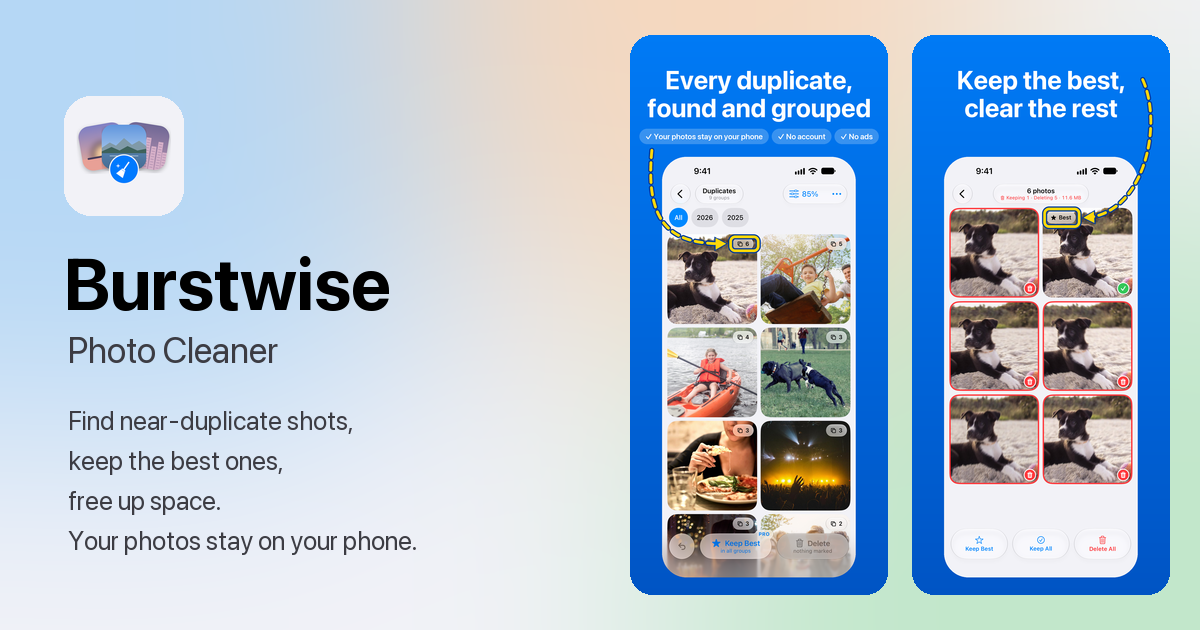
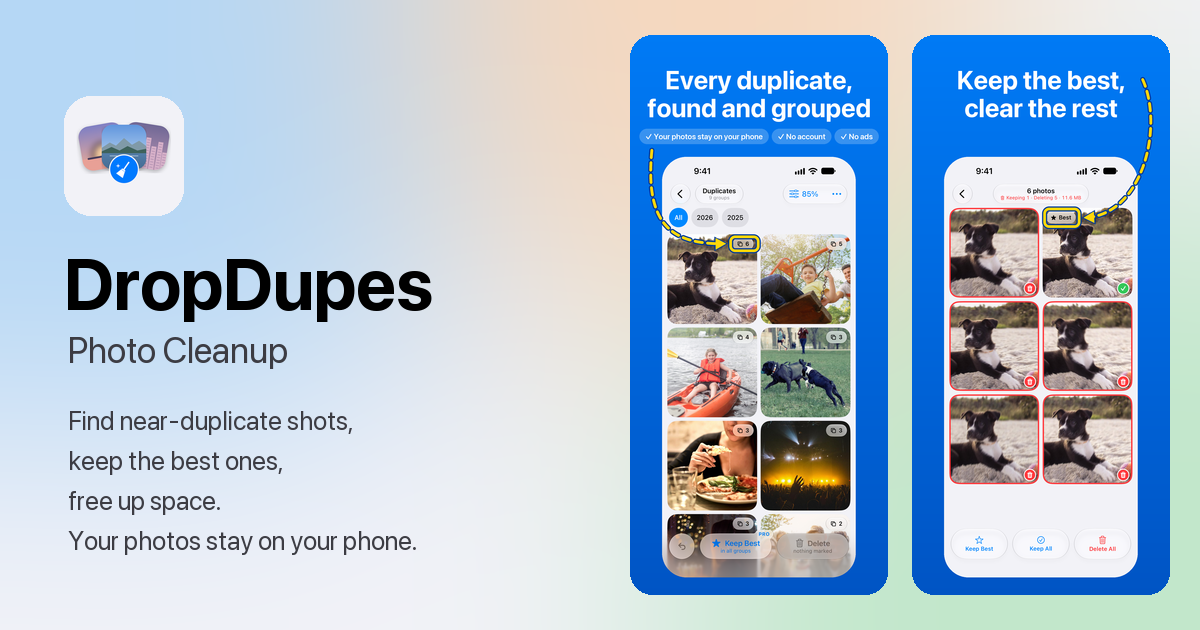
Site from burstwise-ios 5f99085

Changed region(s): [[0.0617, 0.3921, 0.37, 0.5127], [0.2158, 0.5429, 0.2467, 0.573]]

diff --git a/index.html b/index.html
@@ -3,18 +3,19 @@
 <head>
 <meta charset="utf-8">
 <meta name="viewport" content="width=device-width, initial-scale=1, viewport-fit=cover">
-<title>Burstwise: Photo Cleaner for iPhone</title>
-<meta name="description" content="Burstwise finds duplicate and near-identical photos on your iPhone, suggests the best shot, and clears out your biggest photos and videos. Your photos stay on your phone.">
-<meta property="og:title" content="Burstwise: Photo Cleaner">
+<title>DropDupes: Photo Cleanup for iPhone</title>
+<meta name="description" content="DropDupes finds duplicate and near-identical photos on your iPhone, suggests the best shot, and clears out your biggest photos and videos. Your photos stay on your phone.">
+<meta property="og:title" content="DropDupes: Photo Cleanup">
 <meta property="og:description" content="Free up space: find near-identical shots, keep the best ones, and clear out your biggest photos and videos. Your photos stay on your phone.">
-<meta property="og:image" content="https://bar2133.github.io/burstwise/og-image.png">
+<meta property="og:image" content="https://bar2133.github.io/dropdupes/og-image.png">
 <meta property="og:image:width" content="1200">
 <meta property="og:image:height" content="630">
-<meta property="og:image:alt" content="Burstwise: Photo Cleaner app icon and screenshots">
+<meta property="og:image:alt" content="DropDupes: Photo Cleanup app icon and screenshots">
 <meta property="og:type" content="website">
-<meta property="og:site_name" content="Burstwise">
-<meta name="twitter:image" content="https://bar2133.github.io/burstwise/og-image.png">
-<meta property="og:url" content="https://bar2133.github.io/burstwise/">
+<meta property="og:site_name" content="DropDupes">
+<meta name="twitter:image" content="https://bar2133.github.io/dropdupes/og-image.png">
+<meta property="og:url" content="https://bar2133.github.io/dropdupes/">
+<link rel="canonical" href="https://bar2133.github.io/dropdupes/">
 <meta name="twitter:card" content="summary_large_image">
 <link rel="icon" href="icon.png">
 <link rel="apple-touch-icon" href="icon.png">
@@ -25,7 +26,7 @@
 <body>
 
 <header class="nav glass">
-  <a class="brand" href="#top"><img src="icon.png" alt="">Burstwise</a>
+  <a class="brand" href="#top"><img src="icon.png" alt="">DropDupes</a>
   <nav class="links" aria-label="Sections">
     <a href="#how" class="optional">How it works</a>
     <a href="#features" class="optional">Features</a>
@@ -38,9 +39,9 @@
 
 <main id="top">
   <div class="wrap hero">
-    <img class="icon" src="icon.png" alt="Burstwise app icon" width="112" height="112">
+    <img class="icon" src="icon.png" alt="DropDupes app icon" width="112" height="112">
     <h1>Free up space.<br><span class="accent">Keep the best.</span></h1>
-    <p class="sub">Burstwise finds duplicate and near-identical photos on your iPhone and suggests the best shot of each group.</p>
+    <p class="sub">DropDupes finds duplicate and near-identical photos on your iPhone and suggests the best shot of each group.</p>
     <div class="chips">
       <span class="chip glass"><span class="tick">✓</span>Your photos stay on your phone</span>
       <span class="chip glass"><span class="tick">✓</span>No account</span>
@@ -54,7 +55,7 @@
         Coming soon to the App Store
       </a>
     </div>
-    <p class="price-note">Free to try · Burstwise Pro is a one-time $4.99 purchase · iOS 26 or later</p>
+    <p class="price-note">Free to try · DropDupes Pro is a one-time $4.99 purchase · iOS 26 or later</p>
   </div>
 
   <div class="shots" aria-label="Screenshots">
@@ -82,7 +83,7 @@
       <li class="card">
         <span class="num">1</span>
         <h3>Scan</h3>
-        <p>Burstwise looks through your library on your iPhone and groups near-identical shots and repeats.</p>
+        <p>DropDupes looks through your library on your iPhone and groups near-identical shots and repeats.</p>
       </li>
       <li class="card">
         <span class="num">2</span>
@@ -114,7 +115,7 @@
       <div class="card">
         <span class="sf purple"><svg viewBox="0 0 24 24" aria-hidden="true"><circle cx="12" cy="8.5" r="5" fill="none" stroke="currentColor" stroke-width="2"/><circle cx="8.5" cy="15" r="5" fill="none" stroke="currentColor" stroke-width="2"/><circle cx="15.5" cy="15" r="5" fill="none" stroke="currentColor" stroke-width="2"/></svg></span>
         <h3>Clean Up</h3>
-        <p>Blurry shots, screenshots, documents, people, landscapes and food, one filter away. One at a time is free; combine them with Pro.</p>
+        <p>Blurry shots, screenshots, documents, landscapes and food, one filter away. One at a time is free; combine them with Pro.</p>
       </div>
       <div class="card">
         <span class="sf orange"><svg viewBox="0 0 24 24" aria-hidden="true"><path d="M6 3h8l5 5v11a2 2 0 0 1-2 2H6a2 2 0 0 1-2-2V5a2 2 0 0 1 2-2z" fill="none" stroke="currentColor" stroke-width="2"/><path d="M11.5 9v7m-3-3 3 3 3-3" fill="none" stroke="currentColor" stroke-width="2" stroke-linecap="round" stroke-linejoin="round"/></svg></span>
@@ -172,7 +173,7 @@
       </div>
       <div class="card plan pro">
         <span class="badge">Pay once</span>
-        <h3>Burstwise Pro <span class="pro-chip glass">PRO</span></h3>
+        <h3>DropDupes Pro <span class="pro-chip glass">PRO</span></h3>
         <p class="plan-sub">Clean your whole library</p>
         <div class="price">$4.99 <span class="per">one-time</span></div>
         <ul class="ticks">
@@ -188,7 +189,7 @@
 
   <section id="faq" class="wrap">
     <h2>Questions</h2>
-    <details><summary>Does Burstwise upload my photos?</summary><p>No. Your photos stay on your phone. Burstwise collects no data. See the <a href="privacy.html">Privacy Policy</a>.</p></details>
+    <details><summary>Does DropDupes upload my photos?</summary><p>No. Your photos stay on your phone. DropDupes collects no data. See the <a href="privacy.html">Privacy Policy</a>.</p></details>
     <details><summary>Will it delete anything without asking?</summary><p>No. You see a summary first, then iOS asks you to confirm. Deleted items go to Photos › Recently Deleted for 30 days.</p></details>
     <details><summary>How does it pick the best shot?</summary><p>It prefers favorites, then photos without letterboxing, then the sharper, higher-resolution one. It's only a suggestion (★): you decide what to keep.</p></details>
     <details><summary>What do I get with Pro?</summary><p>A one-time purchase that unlocks unlimited cleanups, Keep Best in every group at once, Large Files, and combined filters in Clean Up. Restore it on any iPhone with the same Apple Account.</p></details>
@@ -199,7 +200,7 @@
     <div class="card cta-band">
       <img src="icon.png" alt="" width="72" height="72">
       <h2>Free up space. Keep the best.</h2>
-      <p class="lead">Burstwise is coming soon to the App Store for iPhone.</p>
+      <p class="lead">DropDupes is coming soon to the App Store for iPhone.</p>
       <div class="cta">
         <span class="btn prominent">
           Coming soon to the App Store
@@ -211,9 +212,9 @@
 </main>
 
 <footer class="wrap foot">
-  <a class="brand" href="#top"><img src="icon.png" alt="" width="28" height="28">Burstwise</a>
+  <a class="brand" href="#top"><img src="icon.png" alt="" width="28" height="28">DropDupes</a>
   <nav aria-label="Footer"><a href="support.html">Support</a><a href="privacy.html">Privacy Policy</a><a href="mailto:bar2133@gmail.com">Contact</a></nav>
-  <span>Burstwise: Photo Cleaner · Requires iOS 26 or later · Photos in the screenshots are public-domain (CC0) demo photos.</span>
+  <span>DropDupes: Photo Cleanup · Requires iOS 26 or later · Photos in the screenshots are public-domain (CC0) demo photos.</span>
   <span>iPhone is a trademark of Apple Inc., registered in the U.S. and other countries.</span>
 </footer>
 

diff --git a/support.html b/support.html
@@ -3,29 +3,30 @@
 <head>
 <meta charset="utf-8">
 <meta name="viewport" content="width=device-width, initial-scale=1, viewport-fit=cover">
-<meta property="og:title" content="Burstwise Support">
-<meta property="og:description" content="Help and answers for Burstwise: Photo Cleaner.">
-<meta property="og:image" content="https://bar2133.github.io/burstwise/og-image.png">
+<meta property="og:title" content="DropDupes Support">
+<meta property="og:description" content="Help and answers for DropDupes: Photo Cleanup.">
+<meta property="og:image" content="https://bar2133.github.io/dropdupes/og-image.png">
 <meta property="og:image:width" content="1200">
 <meta property="og:image:height" content="630">
-<meta property="og:url" content="https://bar2133.github.io/burstwise/support.html">
+<meta property="og:url" content="https://bar2133.github.io/dropdupes/support.html">
+<link rel="canonical" href="https://bar2133.github.io/dropdupes/support.html">
 <meta property="og:type" content="website">
 <meta name="twitter:card" content="summary_large_image">
 <link rel="icon" href="icon.png">
-<title>Burstwise Support</title>
+<title>DropDupes Support</title>
 <meta name="theme-color" content="#f2f2f7">
 <script src="theme.js"></script>
 <link rel="stylesheet" href="style.css">
 </head>
 <body>
 <header class="nav glass">
-  <a class="brand" href="index.html"><img src="icon.png" alt="">Burstwise</a>
+  <a class="brand" href="index.html"><img src="icon.png" alt="">DropDupes</a>
   <nav class="links" aria-label="Pages"><a href="index.html#features" class="optional">Features</a><a href="support.html">Support</a><a href="privacy.html">Privacy</a></nav>
   <button class="theme-toggle" type="button" aria-label="Dark mode" aria-pressed="false"><svg class="moon" viewBox="0 0 24 24" aria-hidden="true"><path fill="currentColor" d="M20.5 14.6A8.5 8.5 0 0 1 9.4 3.5a8.5 8.5 0 1 0 11.1 11.1z"/></svg><svg class="sun" viewBox="0 0 24 24" aria-hidden="true"><circle cx="12" cy="12" r="4.5" fill="currentColor"/><path stroke="currentColor" stroke-width="2" stroke-linecap="round" d="M12 2v2M12 20v2M2 12h2M20 12h2M4.9 4.9l1.4 1.4M17.7 17.7l1.4 1.4M4.9 19.1l1.4-1.4M17.7 6.3l1.4-1.4"/></svg></button>
 </header>
 <main class="doc">
 <header><img src="icon.png" alt=""><h1>Support</h1></header>
-<p class="muted">Burstwise: Photo Cleaner</p>
+<p class="muted">DropDupes: Photo Cleanup</p>
 
 <div class="card contact">
   <p>Need help or found a problem? Email us and include your iPhone model, iOS version and roughly how many photos you have.</p>
@@ -40,20 +41,20 @@
 
 <section class="help-group">
 <h2>Purchases</h2>
-<details><summary>What is free, and what does Burstwise Pro add?</summary><p>Scanning, reviewing and your first 20 deletions are free. Burstwise Pro is a one-time purchase (not a subscription) that unlocks unlimited cleanups, Keep Best in every group at once, Large Files, and combined filters in Clean Up.</p></details>
-<details><summary>I bought Pro. How do I get it on a new iPhone?</summary><p>Open Settings › Burstwise Pro in the app and tap Restore Purchases, signed in with the same Apple Account. Family Sharing is supported.</p></details>
+<details><summary>What is free, and what does DropDupes Pro add?</summary><p>Scanning, reviewing and your first 20 deletions are free. DropDupes Pro is a one-time purchase (not a subscription) that unlocks unlimited cleanups, Keep Best in every group at once, Large Files, and combined filters in Clean Up.</p></details>
+<details><summary>I bought Pro. How do I get it on a new iPhone?</summary><p>Open Settings › DropDupes Pro in the app and tap Restore Purchases, signed in with the same Apple Account. Family Sharing is supported.</p></details>
 </section>
 
 <section class="help-group">
 <h2>Photo access</h2>
-<details><summary>Why does Burstwise need access to my photos?</summary><p>To find duplicates and sort photos for Clean Up, it has to look at them. Your photos stay on your phone. See the <a href="privacy.html">Privacy Policy</a>.</p></details>
-<details><summary>I chose "Limited Access". Why are some duplicates missing?</summary><p>Burstwise can only see the photos you selected. To scan everything, go to Settings → Burstwise → Photos and choose Full Access.</p></details>
-<details><summary>I turned access off. How do I turn it back on?</summary><p>Settings → Burstwise → Photos → Full Access.</p></details>
+<details><summary>Why does DropDupes need access to my photos?</summary><p>To find duplicates and sort photos for Clean Up, it has to look at them. Your photos stay on your phone. See the <a href="privacy.html">Privacy Policy</a>.</p></details>
+<details><summary>I chose "Limited Access". Why are some duplicates missing?</summary><p>DropDupes can only see the photos you selected. To scan everything, go to Settings → DropDupes → Photos and choose Full Access.</p></details>
+<details><summary>I turned access off. How do I turn it back on?</summary><p>Settings → DropDupes → Photos → Full Access.</p></details>
 </section>
 
 <section class="help-group">
 <h2>Deleting and recovering</h2>
-<details><summary>Will Burstwise delete anything without asking?</summary><p>No. Nothing is marked for deletion until you choose. Before anything is deleted, Burstwise shows a summary, then iOS asks you to confirm.</p></details>
+<details><summary>Will DropDupes delete anything without asking?</summary><p>No. Nothing is marked for deletion until you choose. Before anything is deleted, DropDupes shows a summary, then iOS asks you to confirm.</p></details>
 <details><summary>I deleted the wrong photo. Can I get it back?</summary><p>Yes. Open Photos → Albums → Recently Deleted and tap Recover. Items stay there for 30 days.</p></details>
 <details><summary>My storage didn't go up after deleting.</summary><p>Deleted items still take space while they're in Recently Deleted. Empty that album in Photos to free the space right away.</p></details>
 </section>
@@ -61,13 +62,13 @@
 <section class="help-group">
 <h2>Scanning and best shots</h2>
 <details><summary>What does the similarity slider do?</summary><p>It sets how alike photos must be to be grouped. Higher means only near-identical shots; lower also groups photos that are merely similar. Changing it regroups instantly without rescanning.</p></details>
-<details><summary>How does Burstwise choose the best shot?</summary><p>It prefers favorites, then photos that aren't letterboxed, then the sharper one, the higher resolution, the larger file, and finally the oldest. It's only a suggestion (★); you decide what to keep.</p></details>
-<details><summary>The first scan is slow.</summary><p>The first scan analyzes every photo; later scans only look at new or edited ones. Keep Burstwise open while it scans. Photos stored only in iCloud may need to download first.</p></details>
+<details><summary>How does DropDupes choose the best shot?</summary><p>It prefers favorites, then photos that aren't letterboxed, then the sharper one, the higher resolution, the larger file, and finally the oldest. It's only a suggestion (★); you decide what to keep.</p></details>
+<details><summary>The first scan is slow.</summary><p>The first scan analyzes every photo; later scans only look at new or edited ones. Keep DropDupes open while it scans. Photos stored only in iCloud may need to download first.</p></details>
 </section>
 
 <p class="muted empty" id="empty" hidden>No matching questions. Email <a href="mailto:bar2133@gmail.com">bar2133@gmail.com</a> and we'll help.</p>
 
-<nav><a href="index.html">Burstwise</a><a href="privacy.html">Privacy Policy</a></nav>
+<nav><a href="index.html">DropDupes</a><a href="privacy.html">Privacy Policy</a></nav>
 </main>
 <script>
   // Filters the questions as you type; matching answers open.

diff --git a/privacy.html b/privacy.html
@@ -3,29 +3,30 @@
 <head>
 <meta charset="utf-8">
 <meta name="viewport" content="width=device-width, initial-scale=1, viewport-fit=cover">
-<meta property="og:title" content="Burstwise Privacy Policy">
+<meta property="og:title" content="DropDupes Privacy Policy">
 <meta property="og:description" content="Your photos stay on your phone. Data Not Collected.">
-<meta property="og:image" content="https://bar2133.github.io/burstwise/og-image.png">
+<meta property="og:image" content="https://bar2133.github.io/dropdupes/og-image.png">
 <meta property="og:image:width" content="1200">
 <meta property="og:image:height" content="630">
-<meta property="og:url" content="https://bar2133.github.io/burstwise/privacy.html">
+<meta property="og:url" content="https://bar2133.github.io/dropdupes/privacy.html">
+<link rel="canonical" href="https://bar2133.github.io/dropdupes/privacy.html">
 <meta property="og:type" content="website">
 <meta name="twitter:card" content="summary_large_image">
 <link rel="icon" href="icon.png">
-<title>Burstwise Privacy Policy</title>
+<title>DropDupes Privacy Policy</title>
 <meta name="theme-color" content="#f2f2f7">
 <script src="theme.js"></script>
 <link rel="stylesheet" href="style.css">
 </head>
 <body>
 <header class="nav glass">
-  <a class="brand" href="index.html"><img src="icon.png" alt="">Burstwise</a>
+  <a class="brand" href="index.html"><img src="icon.png" alt="">DropDupes</a>
   <nav class="links" aria-label="Pages"><a href="index.html#features" class="optional">Features</a><a href="support.html">Support</a><a href="privacy.html">Privacy</a></nav>
   <button class="theme-toggle" type="button" aria-label="Dark mode" aria-pressed="false"><svg class="moon" viewBox="0 0 24 24" aria-hidden="true"><path fill="currentColor" d="M20.5 14.6A8.5 8.5 0 0 1 9.4 3.5a8.5 8.5 0 1 0 11.1 11.1z"/></svg><svg class="sun" viewBox="0 0 24 24" aria-hidden="true"><circle cx="12" cy="12" r="4.5" fill="currentColor"/><path stroke="currentColor" stroke-width="2" stroke-linecap="round" d="M12 2v2M12 20v2M2 12h2M20 12h2M4.9 4.9l1.4 1.4M17.7 17.7l1.4 1.4M4.9 19.1l1.4-1.4M17.7 6.3l1.4-1.4"/></svg></button>
 </header>
 <main class="doc">
 <header><img src="icon.png" alt=""><h1>Privacy Policy</h1></header>
-<p class="muted">Burstwise: Photo Cleaner · Effective 4 November 2026</p>
+<p class="muted">DropDupes: Photo Cleanup · Effective 4 November 2026</p>
 
 <div class="glance" aria-label="At a glance">
   <div><span class="sf blue"><svg viewBox="0 0 24 24" aria-hidden="true"><rect x="6.5" y="2.5" width="11" height="19" rx="2.5" fill="none" stroke="currentColor" stroke-width="2"/><path d="M10.5 18.5h3" stroke="currentColor" stroke-width="2" stroke-linecap="round"/></svg></span><strong>On your phone</strong><span>Your photos stay on your phone</span></div>
@@ -37,26 +38,26 @@
 <div class="card"><strong>In short:</strong> Your photos stay on your phone. We don't collect, share or sell any data, there's no account, and there's no tracking or advertising.</div>
 
 <h2>What the app accesses</h2>
-<p>With your permission, Burstwise reads your Photo Library to find duplicates and large files, and to sort photos for Clean Up. You can give access to all photos or only selected ones, and change this at any time in Settings → Burstwise → Photos.</p>
+<p>With your permission, DropDupes reads your Photo Library to find duplicates and large files, and to sort photos for Clean Up. You can give access to all photos or only selected ones, and change this at any time in Settings → DropDupes → Photos.</p>
 
 <h2>How your photos are processed</h2>
 <p>Your photos stay on your phone. They are analyzed with Apple's Vision framework, and the app turns each photo into a numeric "fingerprint" to compare it with others. If a photo is stored in iCloud, iOS may download it from Apple so it can be analyzed. That transfer is between your device and Apple, under Apple's privacy policy.</p>
 
 <h2>What is stored, and where</h2>
-<p>To make later scans faster and remember your choices, Burstwise keeps information about your photos and your choices <strong>only on your iPhone</strong>, in the app's own storage.</p>
+<p>To make later scans faster and remember your choices, DropDupes keeps information about your photos and your choices <strong>only on your iPhone</strong>, in the app's own storage.</p>
 <p>Your review progress, cleanup history and settings are included in your device backups like any app data. Deleting the app removes everything in its own storage.</p>
 
 <h2>What we collect</h2>
-<p>Nothing. Burstwise has no analytics, crash reporting, advertising or third-party code that collects data, and it doesn't connect to any server of ours. In the App Store's terms: <strong>Data Not Collected</strong>.</p>
+<p>Nothing. DropDupes has no analytics, crash reporting, advertising or third-party code that collects data, and it doesn't connect to any server of ours. In the App Store's terms: <strong>Data Not Collected</strong>.</p>
 
 <h2>Purchases</h2>
-<p>Burstwise Pro is bought through Apple's App Store. Apple processes the payment; we receive no payment details or personal information. The app checks your purchase on the device. It keeps a count of your free deletions (a single number) in your keychain; if iCloud Keychain is on, Apple syncs that number end-to-end encrypted to your other devices, so the count follows your Apple Account. We never receive it.</p>
+<p>DropDupes Pro is bought through Apple's App Store. Apple processes the payment; we receive no payment details or personal information. The app checks your purchase on the device. It keeps a count of your free deletions (a single number) in your keychain; if iCloud Keychain is on, Apple syncs that number end-to-end encrypted to your other devices, so the count follows your Apple Account. We never receive it.</p>
 
 <h2>Deleting photos</h2>
-<p>Burstwise deletes photos only when you confirm, through the standard iOS prompt. Deleted items go to Photos → Recently Deleted, where you can recover them for up to 30 days.</p>
+<p>DropDupes deletes photos only when you confirm, through the standard iOS prompt. Deleted items go to Photos → Recently Deleted, where you can recover them for up to 30 days.</p>
 
 <h2>Children</h2>
-<p>Burstwise doesn't collect personal information from anyone, including children under 13.</p>
+<p>DropDupes doesn't collect personal information from anyone, including children under 13.</p>
 
 <h2>Changes</h2>
 <p>If this policy changes, we'll update this page and its effective date. If the app ever starts handling data differently, we'll say so here before that version is released.</p>
@@ -64,7 +65,7 @@
 <h2>Contact</h2>
 <p>Questions about privacy: <a href="mailto:bar2133@gmail.com">bar2133@gmail.com</a></p>
 
-<nav><a href="index.html">Burstwise</a><a href="support.html">Support</a></nav>
+<nav><a href="index.html">DropDupes</a><a href="support.html">Support</a></nav>
 </main>
 </body>
 </html>

diff --git a/style.css b/style.css
@@ -1,4 +1,4 @@
-/* Burstwise site — iOS 26/27 look: system colors, SF Pro (system font on Apple devices), Liquid Glass for the
+/* DropDupes site — iOS 26/27 look: system colors, SF Pro (system font on Apple devices), Liquid Glass for the
    floating controls only (nav bar, chips, buttons), content cards solid. Light and dark. */
 :root {
   interpolate-size: allow-keywords; /* lets FAQ answers animate to their natural height */
